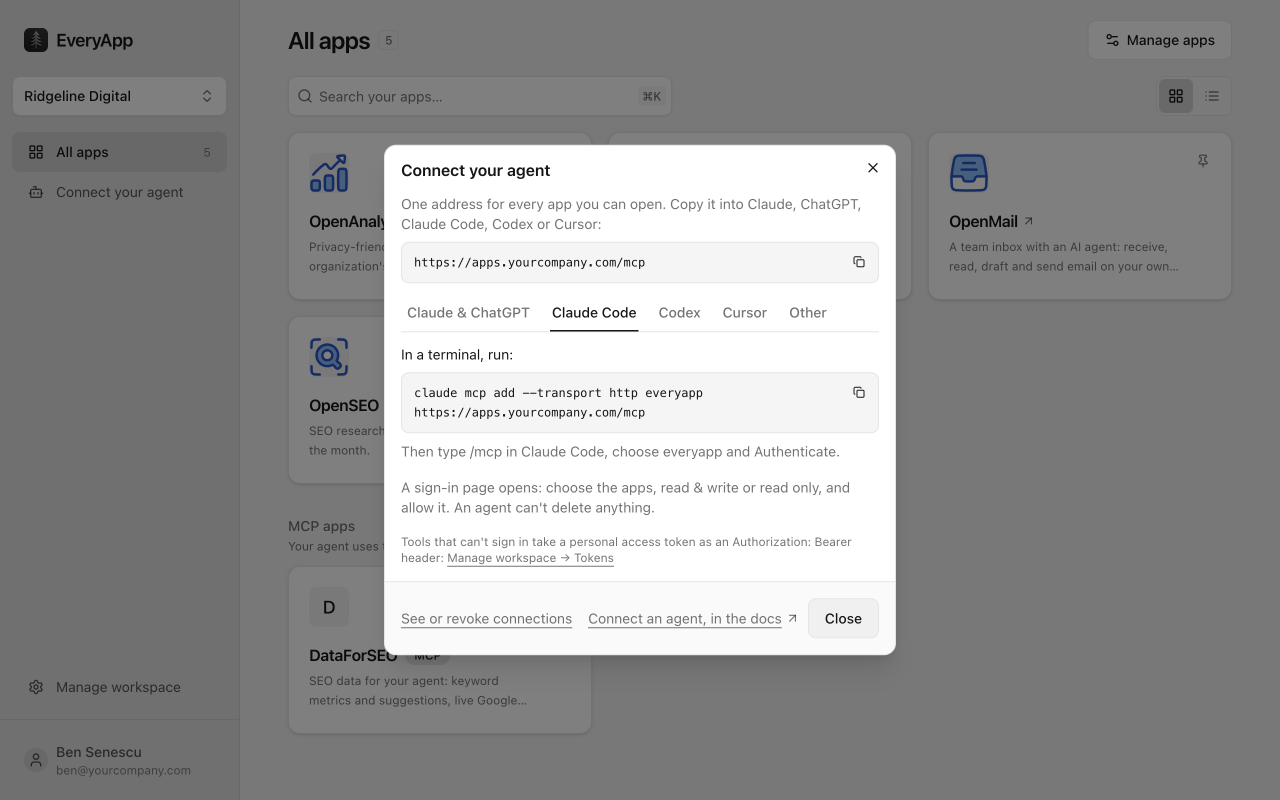
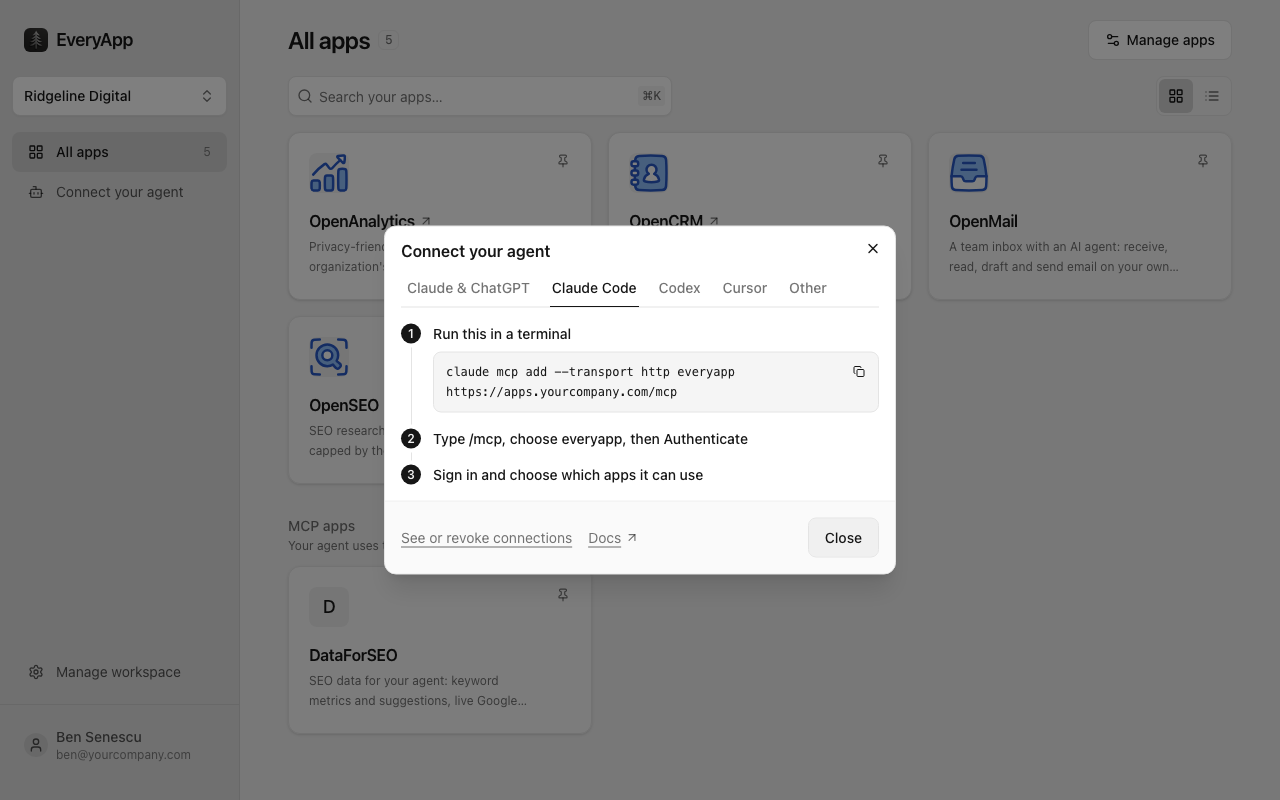
Connect your agent: tabs on top, then each agent's own numbered steps (#891)

diff --git a/apps/every-app-gateway/src/client/components/ConnectAgent.tsx b/apps/every-app-gateway/src/client/components/ConnectAgent.tsx
@@ -34,10 +34,8 @@ function useMcpAddress(): string {
 }
 
 /**
- * How to connect an AI client to this Gateway: the address to copy, a tab
- * per client with its exact step, what the sign-in page asks, and where a
- * token comes from for the reader's role (members cannot open /admin, so
- * they are told to ask; while the role is unknown the line stays out).
+ * How to connect an AI client to this Gateway: a tab per client, then that
+ * client's numbered steps, each command carrying this Gateway's address.
  */
 export function ConnectAgentSteps({
   role,
@@ -48,66 +46,83 @@ export function ConnectAgentSteps({
   onNavigate?: () => void;
 }) {
   const address = useMcpAddress();
-  const canManageTokens = role === "owner" || role === "admin";
   return (
-    <div className="flex min-w-0 flex-col gap-4 text-sm">
-      <div className="flex flex-col gap-2">
-        <p className="text-muted-foreground">{COPY.intro}</p>
-        {address ? (
-          <CodeBlock code={address} successMessage={COPY.addressCopied} />
-        ) : null}
+    <Tabs defaultValue={COPY.clients[0].id} className="min-w-0 gap-4 text-sm">
+      {/* The tabs scroll sideways on a phone instead of being cut off. */}
+      <div className="scrollbar-hidden overflow-x-auto border-b border-border">
+        <TabsList variant="line" className="h-9 gap-4" aria-label="AI app">
+          {COPY.clients.map((client) => (
+            <TabsTrigger
+              key={client.id}
+              value={client.id}
+              className="flex-none px-0.5 pb-2"
+            >
+              {client.label}
+            </TabsTrigger>
+          ))}
+        </TabsList>
       </div>
-      <Tabs defaultValue={COPY.clients[0].id} className="min-w-0">
-        {/* The tabs scroll sideways on a phone instead of being cut off. */}
-        <div className="scrollbar-hidden overflow-x-auto border-b border-border">
-          <TabsList variant="line" className="h-9 gap-4" aria-label="AI app">
-            {COPY.clients.map((client) => (
-              <TabsTrigger
-                key={client.id}
-                value={client.id}
-                className="flex-none px-0.5 pb-2"
+      {COPY.clients.map((client) => (
+        <TabsContent
+          key={client.id}
+          value={client.id}
+          className="flex flex-col gap-4"
+        >
+          <ol className="flex flex-col gap-4">
+            {client.steps.map((step, index) => (
+              <li
+                key={step.text}
+                className="relative grid grid-cols-[1.25rem_minmax(0,1fr)] gap-x-3 gap-y-2 not-last:before:absolute not-last:before:top-6 not-last:before:-bottom-3 not-last:before:left-[9.5px] not-last:before:w-px not-last:before:bg-border"
               >
-                {client.label}
-              </TabsTrigger>
+                <span
+                  aria-hidden
+                  className="flex size-5 items-center justify-center rounded-full bg-foreground text-xs font-semibold text-background"
+                >
+                  {index + 1}
+                </span>
+                <p className="leading-5 font-medium">{step.text}</p>
+                {step.code && address ? (
+                  <div className="col-start-2">
+                    <CodeBlock code={step.code(address)} />
+                  </div>
+                ) : null}
+              </li>
             ))}
-          </TabsList>
-        </div>
-        {COPY.clients.map((client) => (
-          <TabsContent
-            key={client.id}
-            value={client.id}
-            className="flex flex-col gap-2 pt-1"
-          >
-            <p>{client.before}</p>
-            {client.code && address ? (
-              <CodeBlock code={client.code(address)} />
-            ) : null}
-            {client.after ? (
-              <p className="text-muted-foreground">{client.after}</p>
-            ) : null}
-          </TabsContent>
-        ))}
-      </Tabs>
-      <p className="text-muted-foreground">{COPY.next}</p>
-      {role ? (
-        <p className="text-xs text-muted-foreground">
-          {canManageTokens ? (
-            <>
-              {COPY.token.manager}{" "}
-              <Link
-                to="/admin/tokens"
-                onClick={onNavigate}
-                className="underline underline-offset-4 hover:text-foreground"
-              >
-                {COPY.token.managerLink}
-              </Link>
-            </>
-          ) : (
-            COPY.token.member
-          )}
-        </p>
-      ) : null}
-    </div>
+          </ol>
+          {client.id === "other" && role ? (
+            <TokenNote role={role} onNavigate={onNavigate} />
+          ) : null}
+        </TabsContent>
+      ))}
+    </Tabs>
+  );
+}
+
+/**
+ * Where a token comes from, for tools that can't sign in: owners and admins
+ * go to Tokens; members cannot open /admin, so they are told to ask.
+ */
+function TokenNote({
+  role,
+  onNavigate,
+}: {
+  role: string;
+  onNavigate?: () => void;
+}) {
+  if (role !== "owner" && role !== "admin") {
+    return <p className="text-xs text-muted-foreground">{COPY.token.member}</p>;
+  }
+  return (
+    <p className="text-xs text-muted-foreground">
+      {COPY.token.manager}{" "}
+      <Link
+        to="/admin/tokens"
+        onClick={onNavigate}
+        className="underline underline-offset-4 hover:text-foreground"
+      >
+        {COPY.token.managerLink}
+      </Link>
+    </p>
   );
 }
 

diff --git a/apps/every-app-gateway/src/client/lib/connectAgentCopy.ts b/apps/every-app-gateway/src/client/lib/connectAgentCopy.ts
@@ -8,63 +8,87 @@
 
 type ConnectClientId = "claude" | "claude-code" | "codex" | "cursor" | "other";
 
+interface ConnectStep {
+  /** What to do. */
+  text: string;
+  /** The command, file or address to paste, from this Gateway's /mcp address. */
+  code?: (address: string) => string;
+}
+
 interface ConnectClient {
   id: ConnectClientId;
   /** The tab's label. */
   label: string;
-  /** What to do, before the code block. */
-  before: string;
-  /** The command or file to paste, from this Gateway's /mcp address. */
-  code?: (address: string) => string;
-  /** What to do after pasting it. */
-  after?: string;
+  /** Numbered under the tab, as many as the client needs. */
+  steps: readonly ConnectStep[];
 }
+
+/** The last step everywhere: the Gateway's sign-in page asks which apps. */
+const SIGN_IN = "Sign in and choose which apps it can use";
 
 export const CONNECT_AGENT_COPY = {
   /** The sidebar item and the dialog's title. */
   title: "Connect your agent",
-  intro:
-    "One address for every app you can open. Copy it into Claude, ChatGPT, Claude Code, Codex or Cursor:",
-  addressCopied: "Address copied",
   clients: [
     {
       id: "claude",
       label: "Claude & ChatGPT",
-      before:
-        "In Claude (web or desktop) or ChatGPT, add a custom connector and paste the address above.",
+      steps: [
+        { text: "Copy this URL", code: (address) => address },
+        { text: "In Claude or ChatGPT, add a custom connector and paste it" },
+        { text: SIGN_IN },
+      ],
     },
     {
       id: "claude-code",
       label: "Claude Code",
-      before: "In a terminal, run:",
-      code: (address) => `claude mcp add --transport http everyapp ${address}`,
-      after: "Then type /mcp in Claude Code, choose everyapp and Authenticate.",
+      steps: [
+        {
+          text: "Run this in a terminal",
+          code: (address) =>
+            `claude mcp add --transport http everyapp ${address}`,
+        },
+        { text: "Type /mcp, choose everyapp, then Authenticate" },
+        { text: SIGN_IN },
+      ],
     },
     {
       id: "codex",
       label: "Codex",
-      before: "In a terminal, run:",
-      code: (address) =>
-        `codex mcp add everyapp --url ${address}\ncodex mcp login everyapp`,
+      steps: [
+        {
+          text: "Add EveryApp",
+          code: (address) => `codex mcp add everyapp --url ${address}`,
+        },
+        { text: SIGN_IN, code: () => "codex mcp login everyapp" },
+      ],
     },
     {
       id: "cursor",
       label: "Cursor",
-      before:
-        "Add this to ~/.cursor/mcp.json (or .cursor/mcp.json in a project):",
-      code: (address) =>
-        JSON.stringify({ mcpServers: { everyapp: { url: address } } }, null, 2),
-      after: "Cursor then asks you to sign in.",
+      steps: [
+        {
+          text: "Add this to ~/.cursor/mcp.json",
+          code: (address) =>
+            JSON.stringify(
+              { mcpServers: { everyapp: { url: address } } },
+              null,
+              2,
+            ),
+        },
+        { text: "Sign in when Cursor asks" },
+      ],
     },
     {
       id: "other",
       label: "Other",
-      before: "Add an MCP server with the address above.",
+      steps: [
+        { text: "Add an MCP server with this URL", code: (address) => address },
+        { text: SIGN_IN },
+      ],
     },
   ] satisfies readonly ConnectClient[],
-  /** Under the tabs: what the sign-in page asks. */
-  next: "A sign-in page opens: choose the apps, read & write or read only, and allow it. An agent can't delete anything.",
-  /** For tools that can't sign in, by the reader's role. */
+  /** Under the Other tab, for tools that can't sign in, by the reader's role. */
   token: {
     manager:
       "Tools that can't sign in take a personal access token as an Authorization: Bearer header:",
@@ -73,5 +97,5 @@ export const CONNECT_AGENT_COPY = {
       "Tools that can't sign in need a personal access token: ask an owner or admin for one.",
   },
   connectionsLink: "See or revoke connections",
-  docsLink: "Connect an agent, in the docs",
+  docsLink: "Docs",
 } as const;

diff --git a/apps/every-app-gateway/src/client/components/ConnectAgent.test.tsx b/apps/every-app-gateway/src/client/components/ConnectAgent.test.tsx
@@ -1,9 +1,10 @@
 // @vitest-environment happy-dom
 /**
- * "Connect your agent", rendered for real (React in a DOM): the gateway's
- * own /mcp address, a tab per client whose command carries that address, a
- * tokens line that fits the reader's role (members cannot open /admin), and
- * the dialog's way to the connections list and the docs.
+ * "Connect your agent", rendered for real (React in a DOM): a tab per client
+ * with its own numbered steps, each command carrying the gateway's own /mcp
+ * address, a tokens line under Other that fits the reader's role (members
+ * cannot open /admin), and the dialog's way to the connections list and the
+ * docs.
  */
 import { act } from "react";
 import { createRoot, type Root } from "react-dom/client";
@@ -96,16 +97,37 @@ describe("ConnectAgentSteps", () => {
     expect(panelText()).toContain(`"url": "${address()}"`);
   });
 
-  it("sends owners and admins to Tokens and tells members to ask", () => {
-    let host = render(<ConnectAgentSteps role="admin" />);
-    expect(host.querySelector('a[href="/admin/tokens"]')).not.toBeNull();
+  it("numbers each client's own steps under its tab", () => {
+    render(<ConnectAgentSteps role="member" />);
+    for (const client of CONNECT_AGENT_COPY.clients) {
+      act(() => tab(client.label).click());
+      const panel = document.getElementById(
+        tab(client.label).getAttribute("aria-controls") ?? "",
+      );
+      const steps = [...(panel?.querySelectorAll("ol > li") ?? [])];
+      expect(steps.map((step) => step.querySelector("p")?.textContent)).toEqual(
+        client.steps.map((step) => step.text),
+      );
+      expect(steps.map((step) => step.firstElementChild?.textContent)).toEqual(
+        client.steps.map((_, index) => String(index + 1)),
+      );
+    }
+  });
 
-    host = render(<ConnectAgentSteps role="member" />);
-    expect(host.querySelector('a[href="/admin/tokens"]')).toBeNull();
-    expect(host.textContent).toContain(CONNECT_AGENT_COPY.token.member);
+  it("under Other, sends owners and admins to Tokens and tells members to ask", () => {
+    render(<ConnectAgentSteps role="admin" />);
+    expect(document.querySelector('a[href="/admin/tokens"]')).toBeNull();
+    act(() => tab("Other").click());
+    expect(document.querySelector('a[href="/admin/tokens"]')).not.toBeNull();
 
-    host = render(<ConnectAgentSteps role={undefined} />);
-    expect(host.textContent).not.toContain("personal access token");
+    render(<ConnectAgentSteps role="member" />);
+    act(() => tab("Other").click());
+    expect(document.querySelector('a[href="/admin/tokens"]')).toBeNull();
+    expect(panelText()).toContain(CONNECT_AGENT_COPY.token.member);
+
+    render(<ConnectAgentSteps role={undefined} />);
+    act(() => tab("Other").click());
+    expect(document.body.textContent).not.toContain("personal access token");
   });
 });
 
